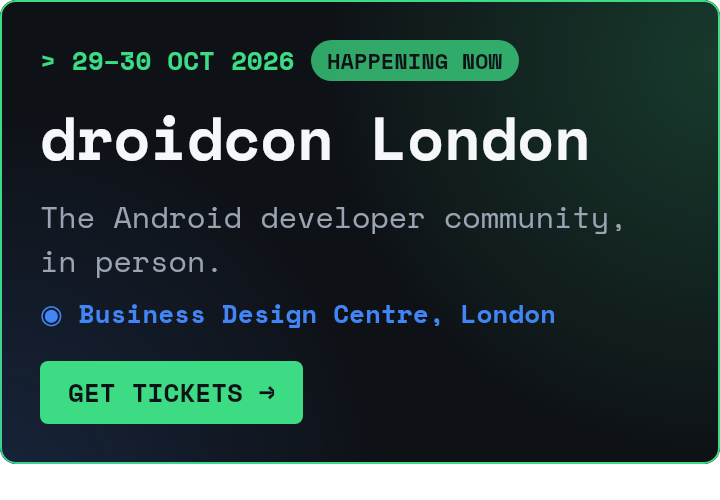
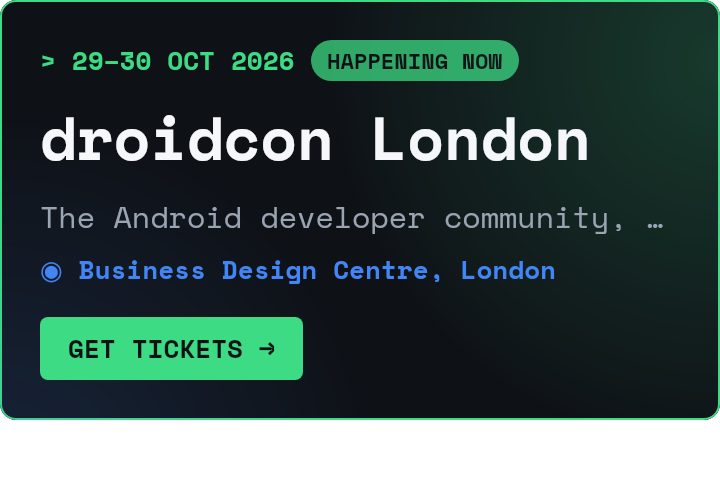
fix(livery): leave the droidcon header room for its tickets button at the limits
Merges the long conference example with a tickets URL. With a two-line name in Space Mono, a
two-line tagline left the button a sliver at 250dp; the tagline is now one line.

Claude-Session: https://claude.ai/code/session_017xSuvobFYXdQ2QMpahMagX

diff --git a/livery-catalog/src/main/kotlin/dev/johnoreilly/confetti/livery/DroidconDesigns.kt b/livery-catalog/src/main/kotlin/dev/johnoreilly/confetti/livery/DroidconDesigns.kt
@@ -71,7 +71,8 @@ fun DroidconHeader() {
             LivePill(inputBool(C.live), c.primary, c.onPrimary, text = "HAPPENING NOW")
         }
         Label(input(C.name), c.onSurface, size = 30, weight = FontWeight.ExtraBold, maxLines = 2)
-        Label(input(C.tagline), c.muted, size = 15, weight = FontWeight.Normal, maxLines = 2)
+        // One line: with a two-line name in Space Mono, a second leaves the tickets button no room.
+        Label(input(C.tagline), c.muted, size = 15, weight = FontWeight.Normal, maxLines = 1)
         Label("◉ ".rs + input(C.location), c.tertiary, size = 13, weight = FontWeight.SemiBold)
         // Only when the app has somewhere to send people: no URL, no button.
         val ticketsUrl = input(C.ticketsUrl)
